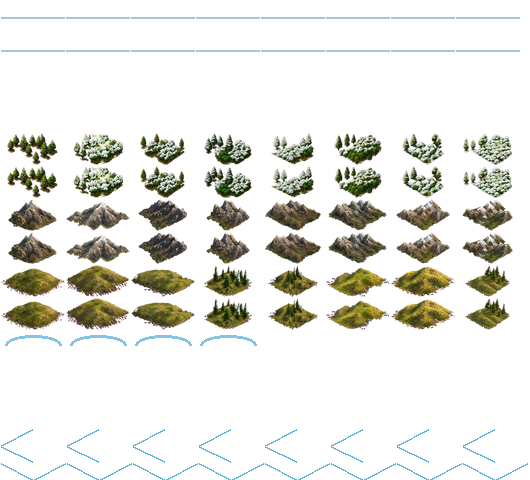
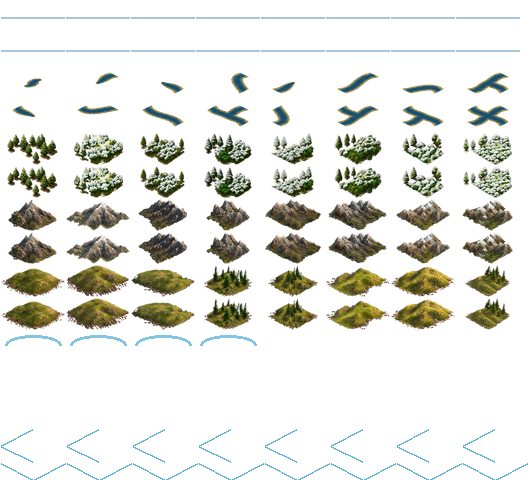
TERRAIN2's river rows come back: compose each cell from its river mask

diff --git a/scripts/build_standalone_sheets.py b/scripts/build_standalone_sheets.py
@@ -59,6 +59,24 @@ def contain(source: Image.Image, size: tuple[int, int], padding: int = 0) -> Ima
     return result
 
 
+def fit_canvas(source: Image.Image, size: tuple[int, int]) -> Image.Image:
+    """Scale a whole overlay canvas into a cell, keeping the canvas geometry.
+
+    contain() crops to the art first; an overlay painted on a canvas that *is*
+    the tile (the river bands are, at 8x per scripts/prepare_river_overlays.py)
+    must keep the canvas bounds so a segment lines up with the segment on the
+    neighbouring tile instead of filling whatever it happens to touch.
+    """
+    source = source.convert("RGBA")
+    scale = min(size[0] / source.width, size[1] / source.height)
+    width = max(1, round(source.width * scale))
+    height = max(1, round(source.height * scale))
+    scaled = source.resize((width, height), Image.Resampling.LANCZOS)
+    canvas = Image.new("RGBA", size, (0, 0, 0, 0))
+    canvas.alpha_composite(scaled, ((size[0] - width) // 2, (size[1] - height) // 2))
+    return canvas
+
+
 def terrain_source(name: str, variant: int = 1) -> Path:
     """Base terrain art, preferring a PNG diamond over the legacy square JPEG.
 
@@ -348,16 +366,27 @@ def build_terrain2() -> None:
     for directory, stem, y in overlay_groups:
         for index in range(16):
             path = ART / "Terrain" / "Overlays" / directory / f"{stem}_{index % 8 + 1:02}.png"
+            from_mask = False
             if not path.exists():
-                # The painted river set ships as river_mask_NN[_M].png and
-                # river_mouth_*.png runtime bands, not as river_NN.png sprites,
-                # so this group composes nothing. The procedural stroke rows
-                # below stay as its fallback; inventing river art here would
-                # duplicate the painted bands that already pin the map (issue
-                # crhy/rhYciv#18).
-                continue
+                if directory != "Rivers":
+                    # No art for this overlay group; the procedural strokes drawn
+                    # below are its fallback.
+                    continue
+                # The painted river ships as river_mask_NN[_M].png runtime bands,
+                # never as river_NN.png sprites (UI.Classic/ImageLoader/
+                # TerrainLoader.cs LoadRiverBands). UI.CompatAlternate reads these
+                # very rows at runtime, so an empty cell there loses every river:
+                # compose the matching mask band, in the same 00..15 mask order
+                # the Classic loader indexes them by (issue crhy/rhYciv#18).
+                path = ART / "Terrain" / "Overlays" / directory / f"river_mask_{index:02}.png"
+                if not path.exists():
+                    raise FileNotFoundError(
+                        f"{ART / 'Terrain' / 'Overlays' / directory}/"
+                        f"{stem}_{index % 8 + 1:02}.png and river_mask_{index:02}.png are both "
+                        f"missing, so TERRAIN2 river cell {index} would be left empty")
+                from_mask = True
             with Image.open(path) as loaded:
-                item = contain(loaded, (64, 32))
+                item = fit_canvas(loaded, (64, 32)) if from_mask else contain(loaded, (64, 32))
             sheet.alpha_composite(item, (1 + 65 * (index % 8), y + 33 * (index // 8)))
 
     draw = ImageDraw.Draw(sheet)
